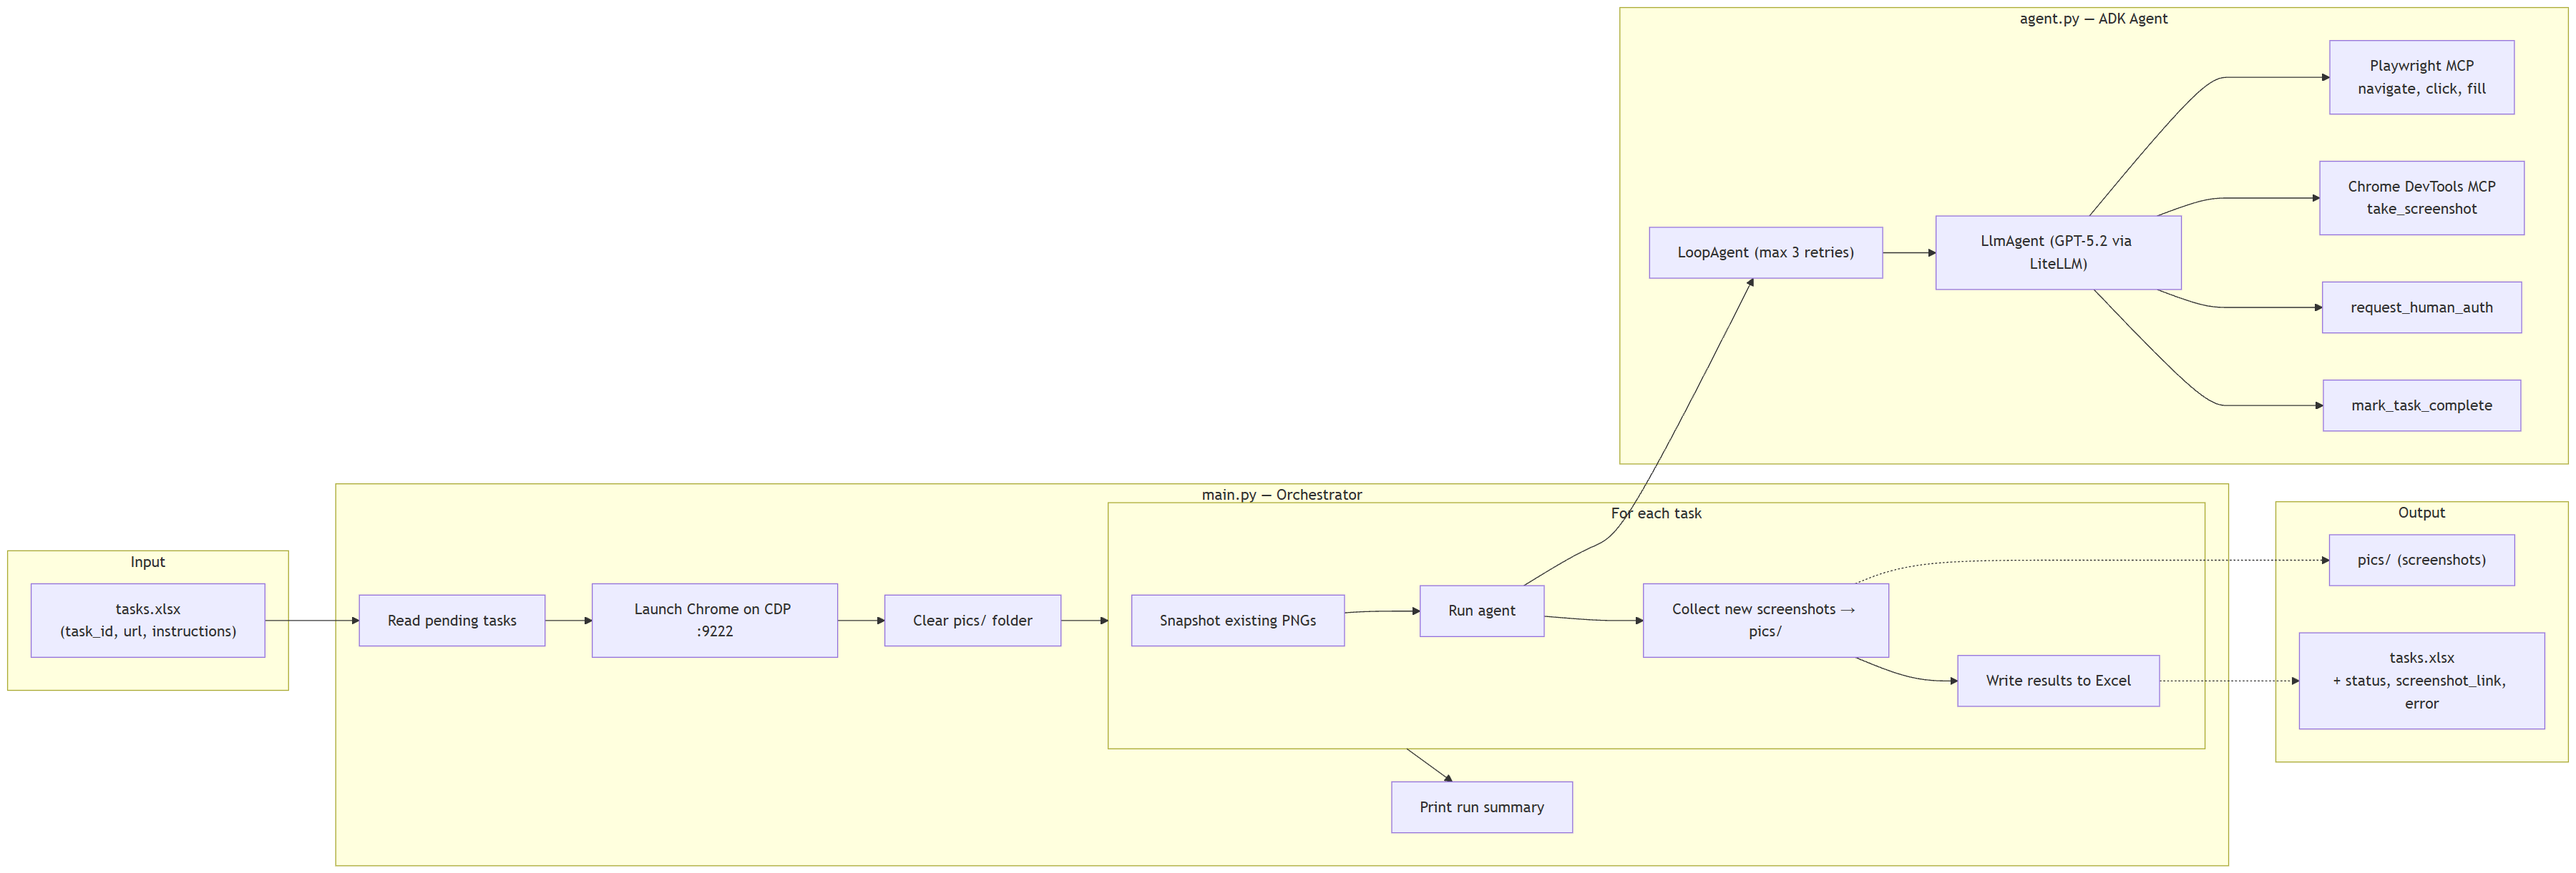
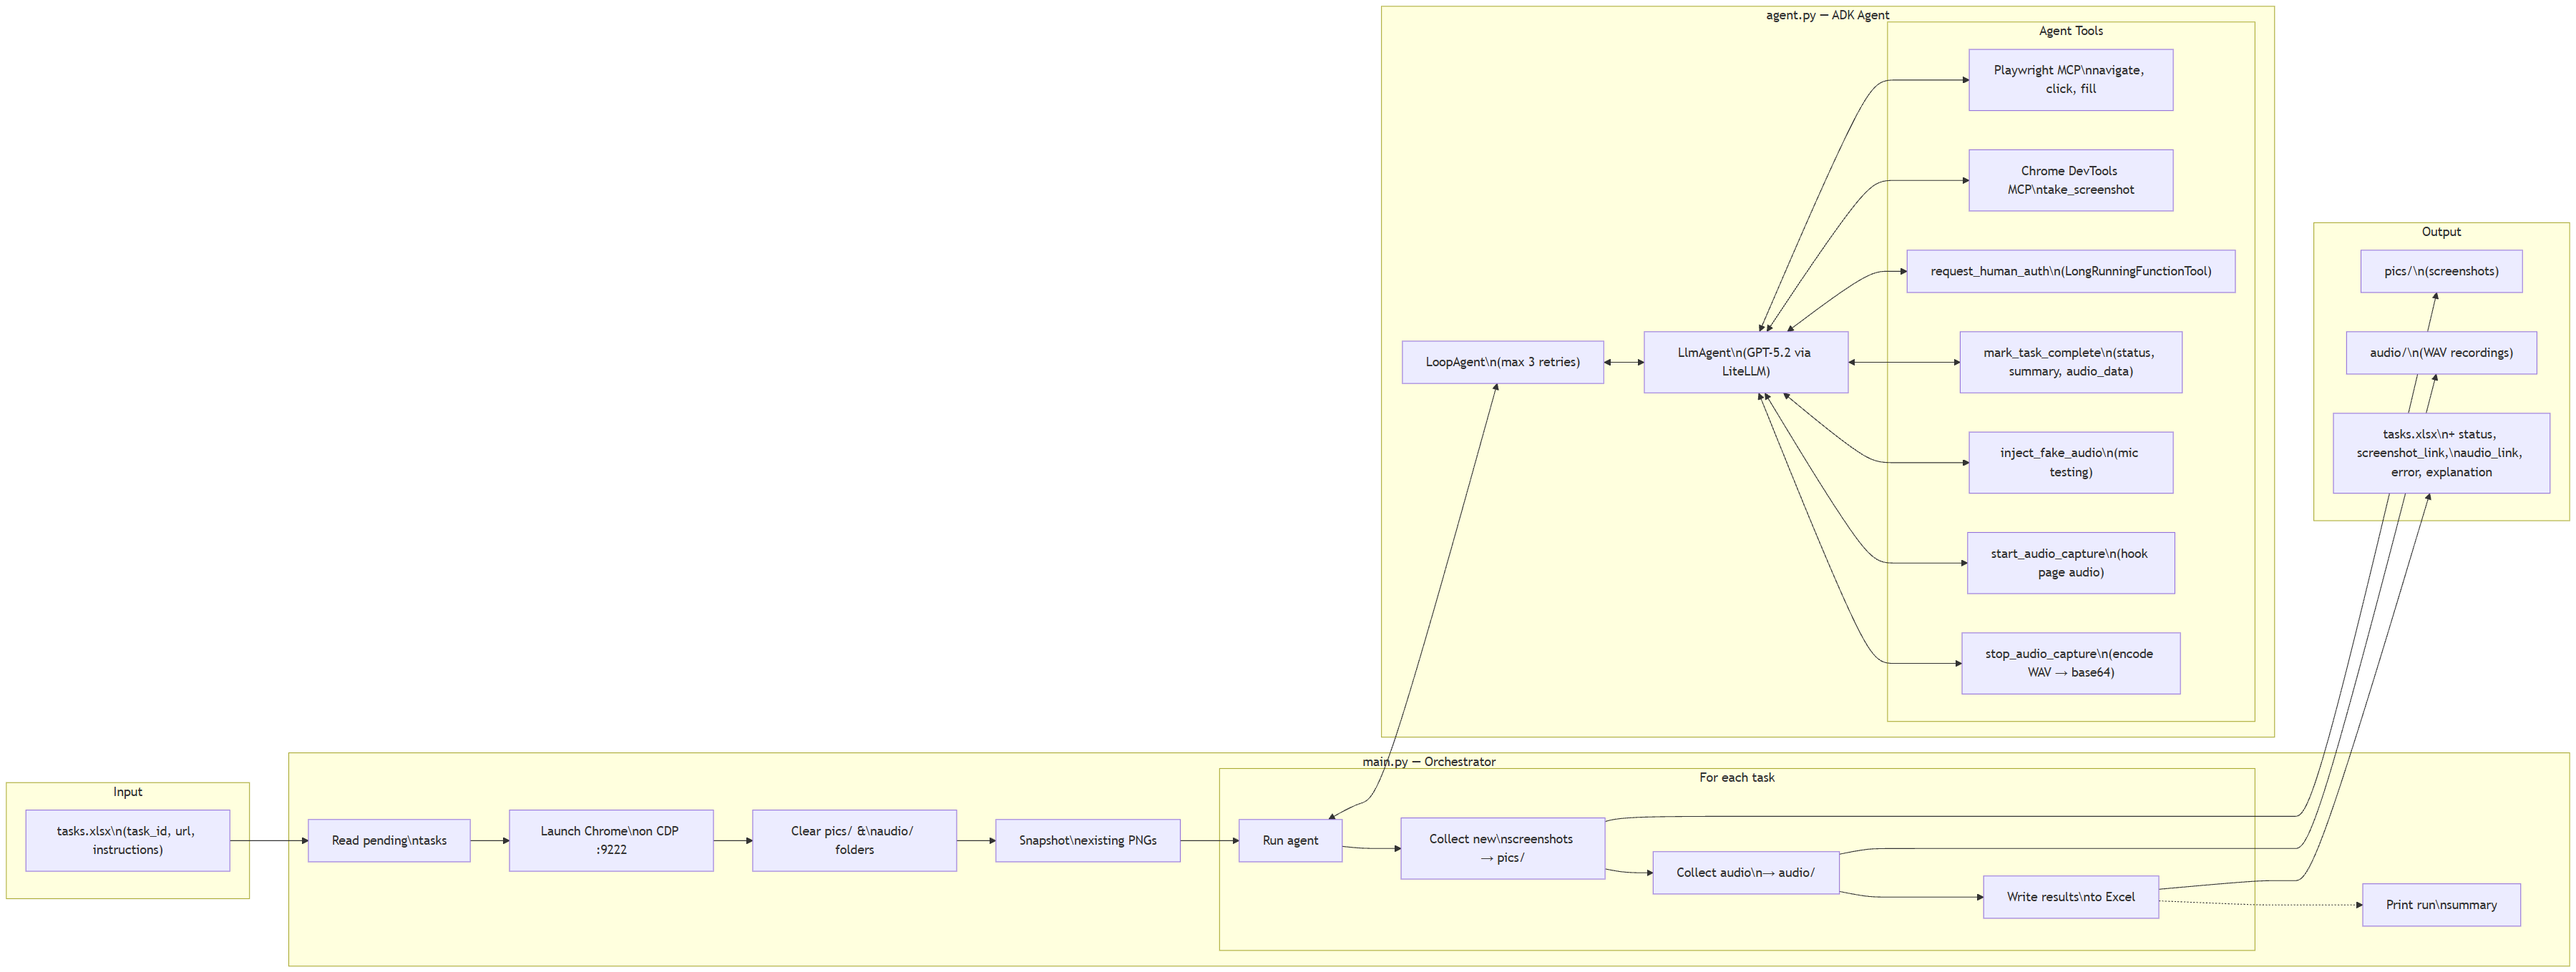
docs: update architecture diagram and README for audio capture
- Regenerated architecture.png with audio capture tools and audio/ output
- Added audio capture and fake mic features to README
- Updated project structure, output columns, and configuration table
- Added Audio capabilities section explaining input/output audio flows

diff --git a/README.md b/README.md
@@ -4,11 +4,13 @@ Web task automation agent powered by [Google ADK](https://github.com/google/adk-
 
 ## What it does
 
-Reads tasks from an Excel spreadsheet (`tasks.xlsx`), launches Chrome, and uses an LLM-driven agent to execute each task on the web. Screenshots are captured after each task and saved to `pics/`. Results (status, screenshot path, errors) are written back into the spreadsheet.
+Reads tasks from an Excel spreadsheet (`tasks.xlsx`), launches Chrome, and uses an LLM-driven agent to execute each task on the web. Screenshots are captured after each task and saved to `pics/`. If a website plays audio, the agent can record it and save WAV files to `audio/`. Results (status, screenshot path, audio path, errors) are written back into the spreadsheet.
 
 Key features:
 
 - **Dual MCP toolsets** -- Playwright MCP for browser interaction, Chrome DevTools MCP for screenshots
+- **Audio capture** -- records tab audio output as WAV files when the agent detects audio playback
+- **Fake microphone input** -- Chrome launches with fake media device flags for mic/camera testing
 - **Human-in-the-loop auth** -- pauses for manual login/2FA when detected, then resumes
 - **Automatic retry** -- LoopAgent wraps the executor with up to 3 attempts per task
 - **Per-task isolation** -- failures on one task don't block the rest
@@ -47,16 +49,18 @@ cp .env.example .env
    uv run python main.py
    ```
 
-3. Results are written to `tasks.xlsx` (columns: `screenshot_link`, `status`, `error`) and screenshots are saved in `pics/`.
+3. Results are written to `tasks.xlsx` (columns: `screenshot_link`, `audio_link`, `status`, `error`, `explanation`) and screenshots are saved in `pics/`. If the agent captured audio, WAV files are saved in `audio/`.
 
 ## Project structure
 
 ```
-main.py               Orchestrator -- launches Chrome, runs tasks, collects screenshots
-agent.py              ADK agent definition (LoopAgent + LlmAgent + MCP toolsets)
+main.py               Orchestrator -- launches Chrome, runs tasks, collects screenshots & audio
+agent.py              ADK agent definition (LoopAgent + LlmAgent + 7 tools)
 excel_io.py           Read/write task spreadsheets
 create_sample_xlsx.py Generate a sample tasks.xlsx
 tests/                Unit tests
+pics/                 Screenshot output (cleared each run)
+audio/                Audio capture output (cleared each run)
 docs/plans/           Design and implementation docs
 ```
 
@@ -71,5 +75,12 @@ docs/plans/           Design and implementation docs
 | `VERTEXAI_LOCATION` | GCP region, e.g. `us-central1` (when using `vertex_ai` provider) |
 | `GOOGLE_API_KEY` | Google AI API key (when using `google` provider) |
 | `CHROME_PATH` | Custom Chrome executable path (optional) |
+| `FAKE_AUDIO_FILE` | Path to a WAV file for fake mic input (optional -- omit for synthetic beep) |
 
 The model string is built from `MODEL_PROVIDER` / `MODEL_NAME` and routed through ADK's LLMRegistry. For Vertex AI, install the extra: `uv sync --extra vertex`.
+
+## Audio capabilities
+
+**Microphone testing (input):** Chrome is launched with `--use-fake-device-for-media-stream` so `getUserMedia()` works without a real mic. Set `FAKE_AUDIO_FILE` to feed a specific WAV, or leave empty for a synthetic beep. The agent can also call `inject_fake_audio` to dynamically override `getUserMedia` with a Web Audio oscillator tone.
+
+**Tab audio capture (output):** When a task involves a website that plays audio, the agent calls `start_audio_capture` (injects JS that hooks `<audio>`/`<video>` elements via the Web Audio API) and `stop_audio_capture` (encodes captured PCM as WAV). The base64-encoded WAV is passed back through `mark_task_complete` and the orchestrator saves it to `audio/`.
